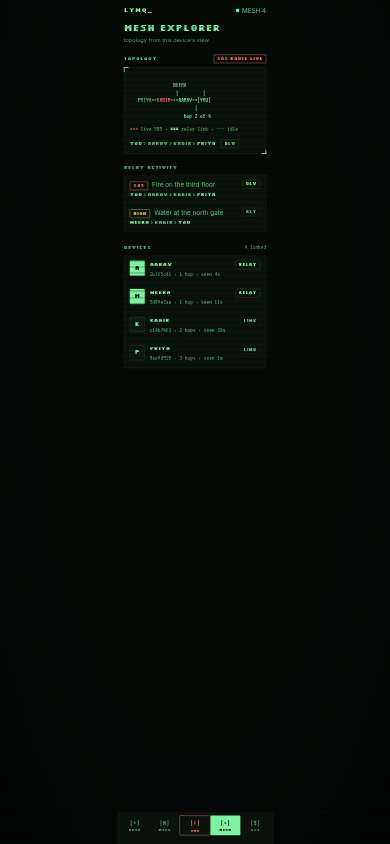
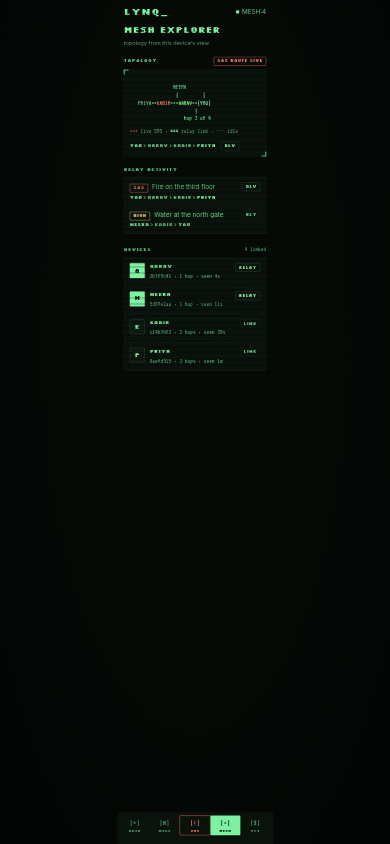
feat(design): taste-skill audit pass
- LYNQ_ wordmark 15px -> 24px, more presence in the sysbar
- Fix fake precision: drop invented 'range ~130m' stat
- Fix cryptic [SEC] tag -> [E2E] (encryption actually means something)
- Touch targets: nav items now 48px minimum (Android standard)
- Focus-visible outlines on all interactive elements (btn, sos, nav, rows)

diff --git a/docs/design/mockups/tokens.css b/docs/design/mockups/tokens.css
@@ -160,13 +160,8 @@ body::before {
 .brk::after  { bottom: -1px; right: -1px; border-width: 0 2px 2px 0; }
 
 /* ---------- header: system status bar ---------- */
-.sysbar {
-  display: flex;
-  align-items: center;
-  justify-content: space-between;
-  padding: 14px var(--gutter) 0;
-}
-.sysbar .logo { font-family: var(--pix); font-size: 15px; letter-spacing: 1px; }
+.sysbar { display: flex; align-items: center; justify-content: space-between; padding: 16px var(--gutter) 0; }
+.sysbar .logo { font-family: var(--pix); font-size: 24px; letter-spacing: 1px; line-height: 1; padding-bottom: 4px; }
 .sysbar .stat {
   font-size: 16px;
   color: var(--ph-dim);
@@ -211,6 +206,8 @@ body::before {
 .rows { border: 1px solid var(--line); border-radius: var(--r); background: var(--panel); }
 .row { display: flex; gap: 12px; padding: 12px 14px; align-items: flex-start; }
 .row + .row { border-top: 1px dashed var(--line); }
+a.row { text-decoration: none; color: inherit; }
+a.row:focus-visible { outline: 2px solid var(--ph); outline-offset: -2px; }
 
 /* ---------- avatar: terminal block, not a circle ---------- */
 .avatar {
@@ -249,6 +246,10 @@ body::before {
   cursor: pointer;
 }
 .btn:active { transform: translateY(1px); }
+.btn:focus-visible, .sos-btn:focus-visible, .cmdbar .cmd:focus-visible {
+  outline: 2px solid var(--ph);
+  outline-offset: 2px;
+}
 .btn-ghost { background: transparent; border-color: var(--line); color: var(--ph-dim); }
 
 /* ---------- SOS: the red lever ---------- */
@@ -327,9 +328,11 @@ body::before {
 }
 .cmdbar .cmd {
   flex: 1;
+  min-height: 48px;               /* Android touch-target minimum */
   display: flex;
   flex-direction: column;
   align-items: center;
+  justify-content: center;
   gap: 4px;
   padding: 7px 0 5px;
   font-family: var(--pix);

diff --git a/docs/design/mockups/dashboard.html b/docs/design/mockups/dashboard.html
@@ -49,7 +49,7 @@
   <span class="n-you">[YOU]</span>======<span class="n-relay">AARAV</span>
       |           |
 <span class="n-idle">PRIYA</span>======<span class="n-relay">KABIR</span>======<span class="n-you">[YOU]</span></div>
-        <div class="term-xs" style="margin-top:10px">2 links direct · 2 via relay · range ~130m</div>
+        <div class="term-xs" style="margin-top:10px">2 links direct · 2 via relay</div>
       </div>
     </div>
 
@@ -65,7 +65,7 @@
           <div style="flex:1;min-width:0">
             <div style="display:flex;gap:8px;align-items:baseline">
               <span class="who">AARAV</span>
-              <span class="term-xs">[SEC]</span>
+              <span class="term-xs">[E2E]</span>
               <span class="term-xs" style="margin-left:auto">2m</span>
             </div>
             <div class="dim" style="overflow:hidden;text-overflow:ellipsis;white-space:nowrap">Reached the shelter, two more with me.</div>
